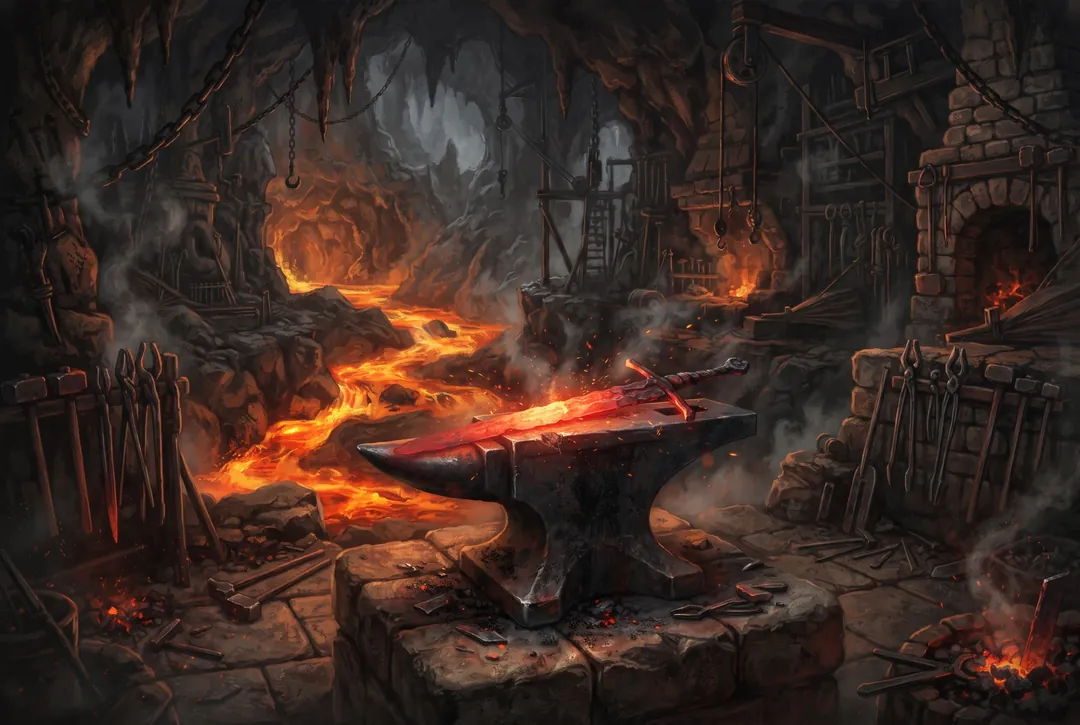
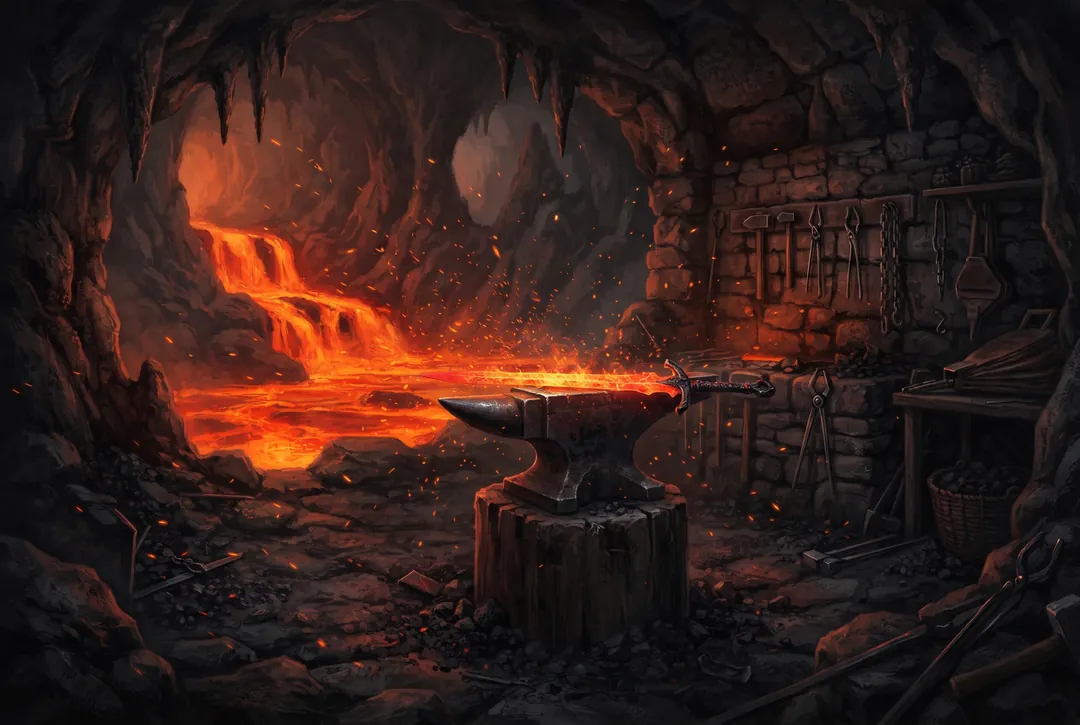
Infinite Dungeon 0.4 : toutes les illustrations Gemini
- Brasier toxique, emblème Lumière, 3 améliorations du camp, porte maudite, coffre du boss
- 10 scènes d'événements, écrans de victoire, de défaite et de point de passage

Claude-Session: https://claude.ai/code/session_01DCrsPmM6cTJnzJfzaARWAf

diff --git a/prototype/infinite-dungeon/js/data/items.js b/prototype/infinite-dungeon/js/data/items.js
@@ -40,7 +40,7 @@ export const RELICS = {
   // v0.4: relics that change how a run plays
   riposte:  { tag: 'riposte', name: 'Écu à pointes', ic: '🔰', img: 'uiChest1', art: 'relic_riposte', desc: 'Sous la Garde ou derrière un bouclier 💠, un héros frappé renvoie 40 % du coup à l’attaquant.' },
   pierre:   { tag: 'riposte', name: 'Cœur de pierre', ic: '🪨', img: 'uiChest3', art: 'relic_pierre', desc: 'Sous 35 % de vie, un héros subit 30 % de dégâts en moins et frappe 30 % plus fort.' },
-  brasier:  { tag: 'fleau', name: 'Brasier toxique', ic: '🧪', img: 'uiSkull', desc: 'Un ennemi à la fois empoisonné ☠ et brûlé 🔥 subit le double de dégâts de ces deux effets.' },
+  brasier:  { tag: 'fleau', name: 'Brasier toxique', ic: '🧪', img: 'uiSkull', art: 'relic_brasier', desc: 'Un ennemi à la fois empoisonné ☠ et brûlé 🔥 subit le double de dégâts de ces deux effets.' },
   peste:    { tag: 'fleau', name: 'Peste', ic: '🦠', img: 'uiSkull', art: 'relic_peste', desc: 'Quand un ennemi empoisonné meurt, son poison se propage à tous les autres ennemis.' },
   prisme:   { tag: 'arcanes', name: 'Prisme', ic: '🔷', img: 'uiGem', art: 'relic_prisme', desc: 'Frapper une faiblesse fait ×2 dégâts au lieu de ×1,5.' },
   tempete:  { tag: 'arcanes', name: 'Orbe des tempêtes', ic: '🌩', img: 'uiGem', art: 'relic_tempete', desc: 'Chaque ultime remplit de 25 % la jauge des autres héros.' },
@@ -56,8 +56,7 @@ export const SYNERGIES = {
   riposte: { name: 'Bastion', ic: '🛡', art: 'syn_riposte', desc: 'La Garde bloque 70 % des dégâts au lieu de 50 %, et chaque héros commence avec un bouclier de 10 %.' },
   fleau:   { name: 'Fléau', ic: '☠', art: 'syn_fleau', desc: 'Le poison et la brûlure infligent 50 % de dégâts en plus aux ennemis.' },
   arcanes: { name: 'Arcanes', ic: '✨', art: 'syn_arcanes', desc: 'Les jauges d’ultime se remplissent 30 % plus vite.' },
-  lumiere: { name: 'Lumière', ic: '☀', // art: 'syn_lumiere' (image à venir)
-    desc: 'Les soins sont 25 % plus forts, et l’équipe récupère 10 % de vie de plus après chaque victoire.' },
+  lumiere: { name: 'Lumière', ic: '☀', art: 'syn_lumiere', desc: 'Les soins sont 25 % plus forts, et l’équipe récupère 10 % de vie de plus après chaque victoire.' },
 };
 export const SYN_NEED = 2;
 export const synergyCount = (keys, tag) => keys.filter(k => RELICS[k] && RELICS[k].tag === tag).length;
@@ -122,28 +121,28 @@ export const EVENTS = [
       { label: 'Offrir son sang', effect: { dmgPct: 0.25, relic: true }, hint: '−25 % de vie · une relique' },
       { label: 'Renverser la coupe', effect: { shards: 6 }, hint: '+6 éclats' },
     ] },
-  { id: 'library', zones: [5, 8], scene: 'bg_c6_3', from: 2, title: 'Bibliothèque oubliée', text: 'Un grimoire flotte au milieu des étagères, ouvert sur une page qui brille.',
+  { id: 'library', art: 'event_library', zones: [5, 8], scene: 'bg_c6_3', from: 2, title: 'Bibliothèque oubliée', text: 'Un grimoire flotte au milieu des étagères, ouvert sur une page qui brille.',
     choices: [
       { label: 'Étudier le grimoire', effect: { upgrade: true }, hint: 'Une compétence améliorée' },
       { label: 'Lire les chroniques', effect: { stat: true }, hint: '+10 % de stat à un héros' },
     ] },
   // v0.4: zone events (zones = where they are 3× more likely; from = first zone where they can appear)
-  { id: 'mushrooms', zones: [1], from: 1, scene: 'bg_c2_2', title: 'Cercle de champignons', text: 'Des champignons bleus brillent en cercle. Un vieil arbre semble sourire dans son sommeil.',
+  { id: 'mushrooms', art: 'event_mushrooms', zones: [1], from: 1, scene: 'bg_c2_2', title: 'Cercle de champignons', text: 'Des champignons bleus brillent en cercle. Un vieil arbre semble sourire dans son sommeil.',
     choices: [
       { label: 'Goûter un champignon', effect: { gamble: { win: { healPct: 0.5 }, lose: { dmgPct: 0.15 }, p: 0.6 } }, hint: '60 % : soigne 50 % · sinon −15 % de vie' },
       { label: 'En cueillir pour plus tard', effect: { item: 'pot' }, hint: '+1 potion' },
     ] },
-  { id: 'cart', zones: [2], from: 2, scene: 'bg_c3_2', title: 'Chariot de cristaux', text: 'Un chariot renversé déborde de cristaux rouges, au bord d’une coulée de lave.',
+  { id: 'cart', art: 'event_cart', zones: [2], from: 2, scene: 'bg_c3_2', title: 'Chariot de cristaux', text: 'Un chariot renversé déborde de cristaux rouges, au bord d’une coulée de lave.',
     choices: [
       { label: 'Fouiller le chariot', effect: { dmgPct: 0.1, gold: 80 }, hint: '−10 % de vie · +80 or' },
       { label: 'Garder un cristal pur', effect: { stat: true }, hint: '+10 % de stat à un héros' },
     ] },
-  { id: 'banquet', zones: [5], from: 5, scene: 'bg_c6_4', title: 'Banquet du Comte', text: 'Une longue table dressée, des coupes de vin rouge… et personne pour les boire.',
+  { id: 'banquet', art: 'event_banquet', zones: [5], from: 5, scene: 'bg_c6_4', title: 'Banquet du Comte', text: 'Une longue table dressée, des coupes de vin rouge… et personne pour les boire.',
     choices: [
       { label: 'Boire le vin', effect: { healPct: 0.5 }, hint: 'Soigne l’équipe de 50 %' },
       { label: 'Voler l’argenterie', effect: { dmgPct: 0.2, gold: 120 }, hint: '−20 % de vie · +120 or' },
     ] },
-  { id: 'pact', zones: [8], from: 8, scene: 'bg_c9_1', title: 'Pacte du Néant', text: 'Un miroir flottant montre ton équipe, plus forte… et plus pâle. Une voix propose un marché.',
+  { id: 'pact', art: 'event_pact', zones: [8], from: 8, scene: 'bg_c9_1', title: 'Pacte du Néant', text: 'Un miroir flottant montre ton équipe, plus forte… et plus pâle. Une voix propose un marché.',
     choices: [
       { label: 'Accepter le pacte', effect: { dmgPct: 0.35, relic: 2 }, hint: '−35 % de vie · 2 reliques' },
       { label: 'Briser le miroir', effect: { shards: 10 }, hint: '+10 éclats' },

diff --git a/prototype/infinite-dungeon/js/data/balance.js b/prototype/infinite-dungeon/js/data/balance.js
@@ -59,9 +59,9 @@ export const XP = {
 const costs = (first, n) => Array.from({ length: n }, (_, i) => Math.round(first * 1.4 ** i / 5) * 5);
 export const UPGRADES = {
   vie:     { name: 'Forge du camp', ic: '❤', art: 'camp_vie', desc: lv => `Vie des héros +${6 * lv} %`, costs: costs(20, 10) },
-  force:   { name: 'Armurerie', ic: '⚔', desc: lv => `Attaque et magie +${5 * lv} %`, costs: costs(25, 10) },
-  garde:   { name: 'Bastion', ic: '🛡', desc: lv => `Défense +${6 * lv} %`, costs: costs(20, 10) },
-  ecole:   { name: 'Salle d’entraînement', ic: '📖', desc: lv => `Les héros partent au niveau ${1 + 2 * lv}`, costs: costs(30, 10) },
+  force:   { name: 'Armurerie', ic: '⚔', art: 'camp_force', desc: lv => `Attaque et magie +${5 * lv} %`, costs: costs(25, 10) },
+  garde:   { name: 'Bastion', ic: '🛡', art: 'camp_garde', desc: lv => `Défense +${6 * lv} %`, costs: costs(20, 10) },
+  ecole:   { name: 'Salle d’entraînement', ic: '📖', art: 'camp_ecole', desc: lv => `Les héros partent au niveau ${1 + 2 * lv}`, costs: costs(30, 10) },
   or:      { name: 'Coffre de départ', ic: '💰', art: 'camp_or', desc: lv => `+${30 * lv} or au départ`, costs: costs(15, 8) },
   potion:  { name: 'Apothicaire', ic: '🧪', art: 'camp_potion', desc: lv => `+${lv} potion${lv > 1 ? 's' : ''} au départ`, costs: costs(15, 5) },
   relance: { name: 'Oracle', ic: '🎲', art: 'camp_relance', desc: lv => `${lv} relance${lv > 1 ? 's' : ''} de récompense par expédition`, costs: costs(25, 5) },

diff --git a/prototype/infinite-dungeon/js/ui/assets.js b/prototype/infinite-dungeon/js/ui/assets.js
@@ -43,7 +43,7 @@ for (const k of ['uiPotion', 'uiGold', 'uiScroll', 'uiDice', 'uiChest1', 'uiChes
 // original images of Infinite Dungeon (img/ of this folder)
 for (const R of [...Object.values(RELICS), ...EVENTS, ...Object.values(UPGRADES), ...Object.values(SYNERGIES)]) if (R.art) IMG[R.art] = `img/${R.art}.webp`;
 for (const E of EVENTS) if (E.scene && !IMG[E.scene]) throw new Error(`décor manquant pour l’événement ${E.id}: ${E.scene}`);
-for (const k of ['room_rest', 'room_shop', 'camp_scene', 'bg_menu']) IMG[k] = `img/${k}.webp`;
+for (const k of ['room_rest', 'room_shop', 'camp_scene', 'bg_menu', 'door_cursed', 'chest_boss', 'scr_victory', 'scr_defeat', 'scr_checkpoint']) IMG[k] = `img/${k}.webp`;
 for (const R of [...Object.values(RELICS), ...Object.values(CONSUMABLES)]) if (!IMG[R.img]) throw new Error(`asset manquant pour ${R.name}: ${R.img}`);
 
 export const IMAGES = IMG;

diff --git a/prototype/infinite-dungeon/js/ui/screens/camp.js b/prototype/infinite-dungeon/js/ui/screens/camp.js
@@ -37,7 +37,7 @@ export function showResults(root, { summary, team, onCamp }) {
   const title = o === 'win' ? 'La tour est vaincue !' : o === 'retreat' ? 'Retour au camp' : 'L’équipe est tombée…';
   const pose = o === 'win' ? 'win' : o === 'retreat' ? 'win' : 'ko';
   playMusic(o === 'win' ? 'm_victory' : o === 'retreat' ? 'm_theme' : 'm_defeat');
-  root.replaceChildren(h('div.page.center.results.' + o,
+  root.replaceChildren(h('div.page.center.results.' + o, { style: { '--scr': `url(img/${o === 'lose' ? 'scr_defeat' : 'scr_victory'}.webp)` } },
     h('div.res-heroes', team.map(id => img(`${HEROES[id].sprite}_${pose}`, 'res-hero'))),
     h('h2', title),
     h('p.lead', o === 'lose' ? `Défaite à l’étage ${summary.floor}.` : o === 'retreat' ? `Expédition terminée à l’étage ${summary.floor}.` : 'Vorthax le Lié est tombé. Les 100 étages sont à toi.'),

diff --git a/prototype/infinite-dungeon/js/run/dungeon.js b/prototype/infinite-dungeon/js/run/dungeon.js
@@ -17,7 +17,7 @@ export const DOOR_INFO = {
   shop:  { name: 'Marchand', ic: '💰', img: 'uiGold', desc: 'Potions, équipement et reliques contre de l’or.' },
   event: { name: 'Événement', ic: '❓', img: 'uiScroll', desc: 'Une rencontre étrange, un choix à faire.' },
   boss:  { name: 'Boss', ic: '👑', img: 'uiTrophy', desc: 'Le maître de la zone. Après lui, tes éclats sont à l’abri.' },
-  cursed: { name: 'Porte maudite', ic: '⛓', img: 'uiSkull', desc: 'Des élites renforcés. Si tu survis : 1 relique au choix parmi 3.' },
+  cursed: { name: 'Porte maudite', ic: '⛓', img: 'door_cursed', desc: 'Des élites renforcés. Si tu survis : 1 relique au choix parmi 3.' },
 };
 
 // What each door promises (shown on the map) and how dangerous it is (0-3 skulls)

diff --git a/prototype/infinite-dungeon/js/ui/screens/rooms.js b/prototype/infinite-dungeon/js/ui/screens/rooms.js
@@ -37,7 +37,7 @@ export function showCards(root, { run, kind, onPick, onReroll, onSkip }) {
   const title = relicChoice ? 'Trésor : choisis une relique' : { reward: 'Victoire ! Choisis ta récompense', chest: 'Le coffre s’ouvre', train: 'Entraînement' }[kind];
   root.replaceChildren(h('div.page',
     h('header.ptop', h('h2', title)),
-    kind === 'chest' ? img('chestR2', 'chest-art') : null,
+    kind === 'chest' ? img('chestR2', 'chest-art') : relicChoice ? img('chest_boss', 'chest-art') : null,
     runHeader(run),
     h('div.cards', p.cards.map((c, i) => cardEl(c, run, { onPick: () => onPick(i) }))),
     h('div.pfoot.row',

diff --git a/prototype/infinite-dungeon/style.css b/prototype/infinite-dungeon/style.css
@@ -284,3 +284,7 @@ h1 { margin: 6px 0 0; font-family: 'Lilita One', 'Arial Black', sans-serif; font
 .res-report b{color:#ffb4a8}
 .res-goal{margin:8px 0;color:#ffd98a;font-weight:800;font-size:15px}
 .card.t-relic:has(.syn.on){border-color:#ffd98a;box-shadow:0 0 18px rgba(255,200,90,.45),0 8px 20px rgba(0,0,0,.45)}
+
+/* v0.4 — full-screen illustrations (results, checkpoint) */
+.results,.checkpoint{position:relative;isolation:isolate}
+.results::before,.checkpoint::before{content:'';position:fixed;inset:0;z-index:-1;background:linear-gradient(rgba(7,6,11,.1),rgba(7,6,11,.35) 40%,rgba(7,6,11,.88)),var(--scr) center/cover no-repeat}

diff --git a/prototype/infinite-dungeon/js/ui/screens/map.js b/prototype/infinite-dungeon/js/ui/screens/map.js
@@ -58,8 +58,7 @@ export function showMap(root, { run, onDoor, onQuit }) {
 }
 
 export function showCheckpoint(root, { run, onContinue, onRetreat }) {
-  root.replaceChildren(h('div.page.center',
-    img(zoneOf(run.floor).levels[0].bg, 'scene-art'),
+  root.replaceChildren(h('div.page.center.checkpoint', { style: { '--scr': 'url(img/scr_checkpoint.webp)' } },
     h('h2', `Victoire : ${BOSSES[zoneOf(run.floor - 1).boss].name} !`),
     h('p.lead', `Tu entres dans ${zoneOf(run.floor).name}.`),
     h('p.lead', `${run.banked} éclats sont désormais à l’abri : tu les garderas même en cas de défaite.`),

diff --git a/prototype/infinite-dungeon/js/ui/dom.js b/prototype/infinite-dungeon/js/ui/dom.js
@@ -10,7 +10,7 @@ export function h(sel, attrs, ...kids) {
   for (const [k, v] of Object.entries(attrs || {})) {
     if (v == null || v === false) continue;
     if (k.startsWith('on')) el.addEventListener(k.slice(2), v);
-    else if (k === 'style' && typeof v === 'object') Object.assign(el.style, v);
+    else if (k === 'style' && typeof v === 'object') for (const [p, x] of Object.entries(v)) { if (p.startsWith('--')) el.style.setProperty(p, x); else el.style[p] = x; }
     else if (k === 'html') el.innerHTML = v;
     else el.setAttribute(k, v === true ? '' : v);
   }
